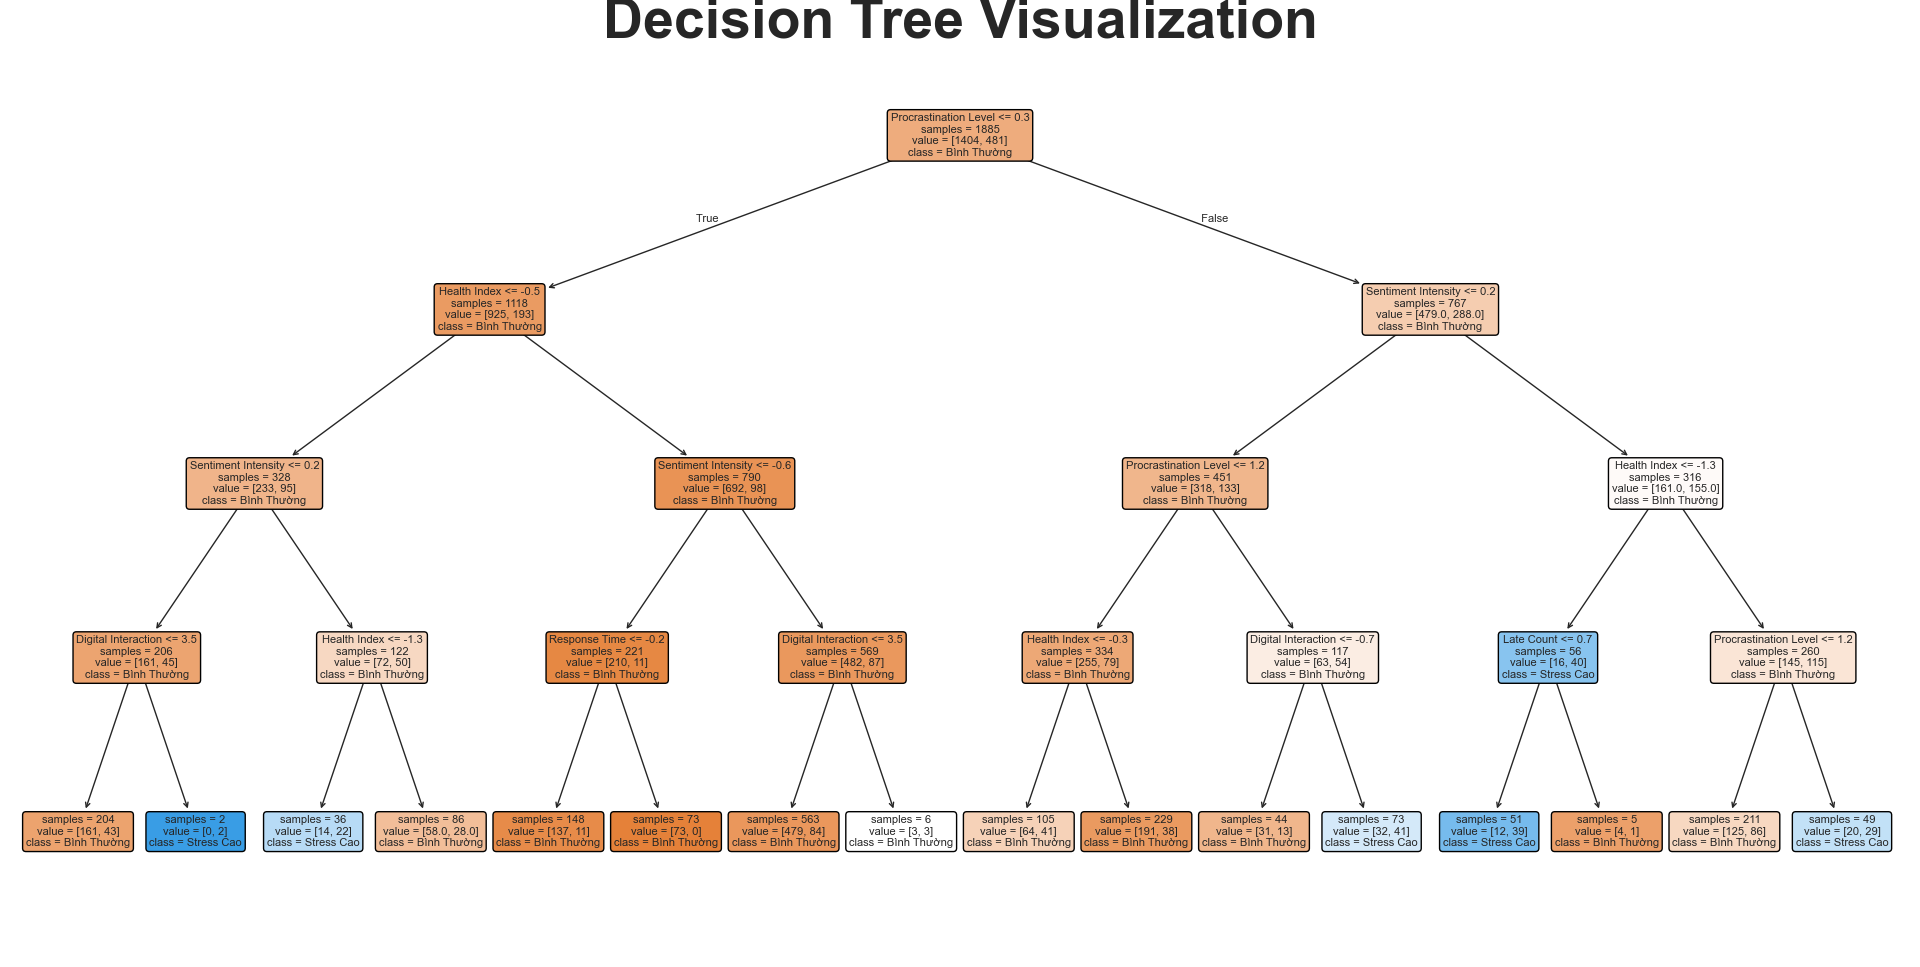
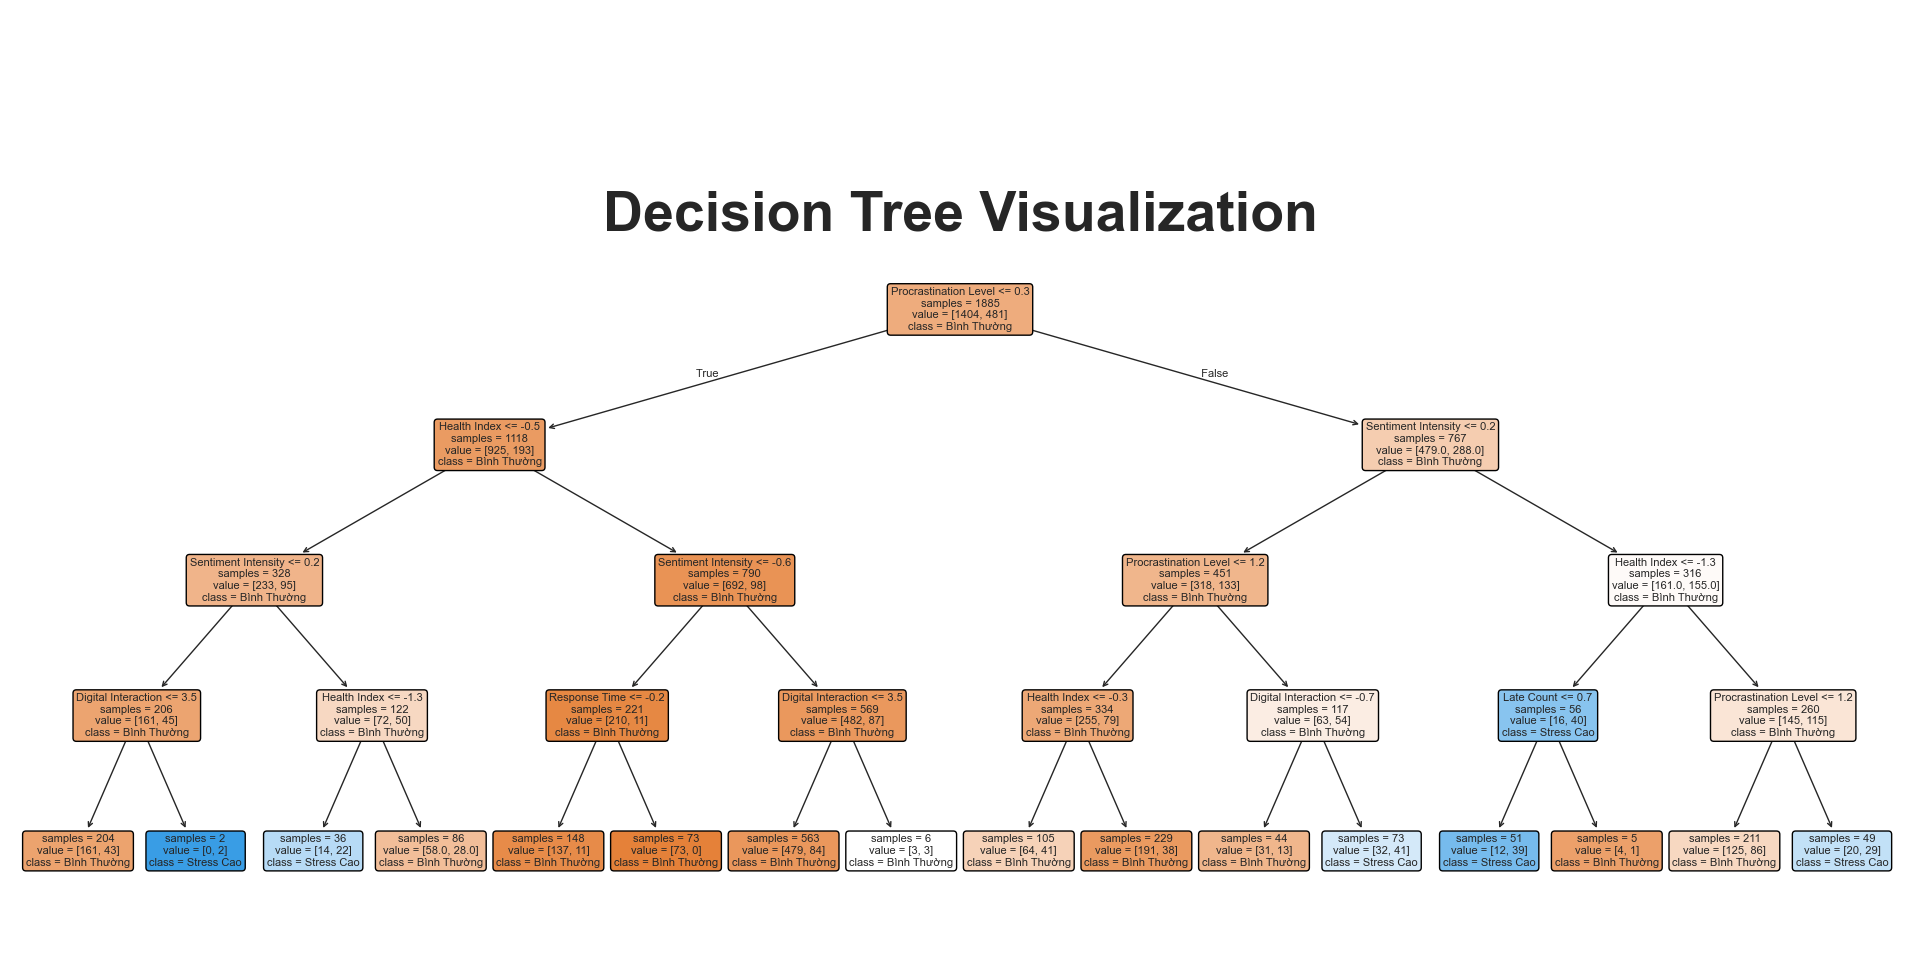
.

diff --git a/main.py b/main.py
@@ -300,16 +300,25 @@ plt.xticks(rotation=15, ha='right')
 plt.tight_layout()
 plt.savefig('ModelAccuracyComparison.png', dpi=300, bbox_inches='tight')
 plt.show()
-fig, axes = plt.subplots(1, 2, figsize=(16, 6))
-rfImportances.index = [re.sub(r'([a-z])([A-Z])', r'\1 \2', f).title() for f in rfImportances.index]
-gbImportances.index = [re.sub(r'([a-z])([A-Z])', r'\1 \2', f).title() for f in gbImportances.index]
-rfImportances.sort_values().plot(kind='barh', ax=axes[0], color='steelblue')
-axes[0].set_title('Random Forest Feature Importance', fontsize=12, fontweight='bold')
-axes[0].set_xlabel('Importance Score')
-gbImportances.sort_values().plot(kind='barh', ax=axes[1], color='coral')
-axes[1].set_title('Gradient Boosting Feature Importance', fontsize=12, fontweight='bold')
-axes[1].set_xlabel('Importance Score')
-plt.tight_layout()
+fig, axes = plt.subplots(2, 2, figsize=(20, 16))
+dtImportances = pd.Series(dtModel.feature_importances_, index=features).sort_values()
+dtImportances.index = [re.sub(r'([a-z])([A-Z])', r'\1 \2', f).title() for f in dtImportances.index]
+dtImportances.plot(kind='barh', ax=axes[0, 0], color='lightseagreen')
+axes[0, 0].set_title('Decision Tree Importance', fontsize=16, fontweight='bold', pad=20)
+rfImportancesFormatted = rfImportances.sort_values()
+rfImportancesFormatted.plot(kind='barh', ax=axes[0, 1], color='steelblue')
+axes[0, 1].set_title('Random Forest Importance', fontsize=16, fontweight='bold', pad=20)
+gbImportancesFormatted = gbImportances.sort_values()
+gbImportancesFormatted.plot(kind='barh', ax=axes[1, 0], color='coral')
+axes[1, 0].set_title('Gradient Boosting Importance', fontsize=16, fontweight='bold', pad=20)
+avgVotingImportance = (dtModel.feature_importances_ + rfModel.feature_importances_ + gbModel.feature_importances_) / 3
+voteImportances = pd.Series(avgVotingImportance, index=features).sort_values()
+voteImportances.index = [re.sub(r'([a-z])([A-Z])', r'\1 \2', f).title() for f in voteImportances.index]
+voteImportances.plot(kind='barh', ax=axes[1, 1], color='mediumpurple')
+axes[1, 1].set_title('Voting Classifier Importance', fontsize=16, fontweight='bold', pad=20)
+for ax in axes.flat:
+  ax.set_xlabel('Importance Score')
+plt.subplots_adjust(hspace=0.25, wspace=0.3, top=0.88, bottom=0.08)
 plt.savefig('FeatureImportanceComparison.png', dpi=300, bbox_inches='tight')
 plt.show()
 fig, ax = plt.subplots(figsize=(12, 6))
@@ -345,8 +354,8 @@ plt.figure(figsize=(80, 20))
 titleCaseFeatures = [re.sub(r'([a-z])([A-Z])', r'\1 \2', f).title() for f in features]
 plot_tree(dtModel, feature_names=titleCaseFeatures, class_names=['Bình Thường', 'Stress Cao'], filled=True, rounded=True, precision=1, fontsize=8, impurity=False)
 plt.title("Decision Tree Visualization", fontsize=40, fontweight='bold')
-plt.subplots_adjust(left=0.01, right=0.99, top=0.95, bottom=0.05)
-plt.savefig('DecisionTree.png', dpi=300, bbox_inches='tight')
+plt.subplots_adjust(left=0.01, right=0.99, top=0.75, bottom=0.05)
+plt.savefig('DecisionTree.png', dpi=300)
 plt.show()
 avgImportances = (rfImportances + gbImportances) / 2
 plt.figure(figsize=(10, 6))
